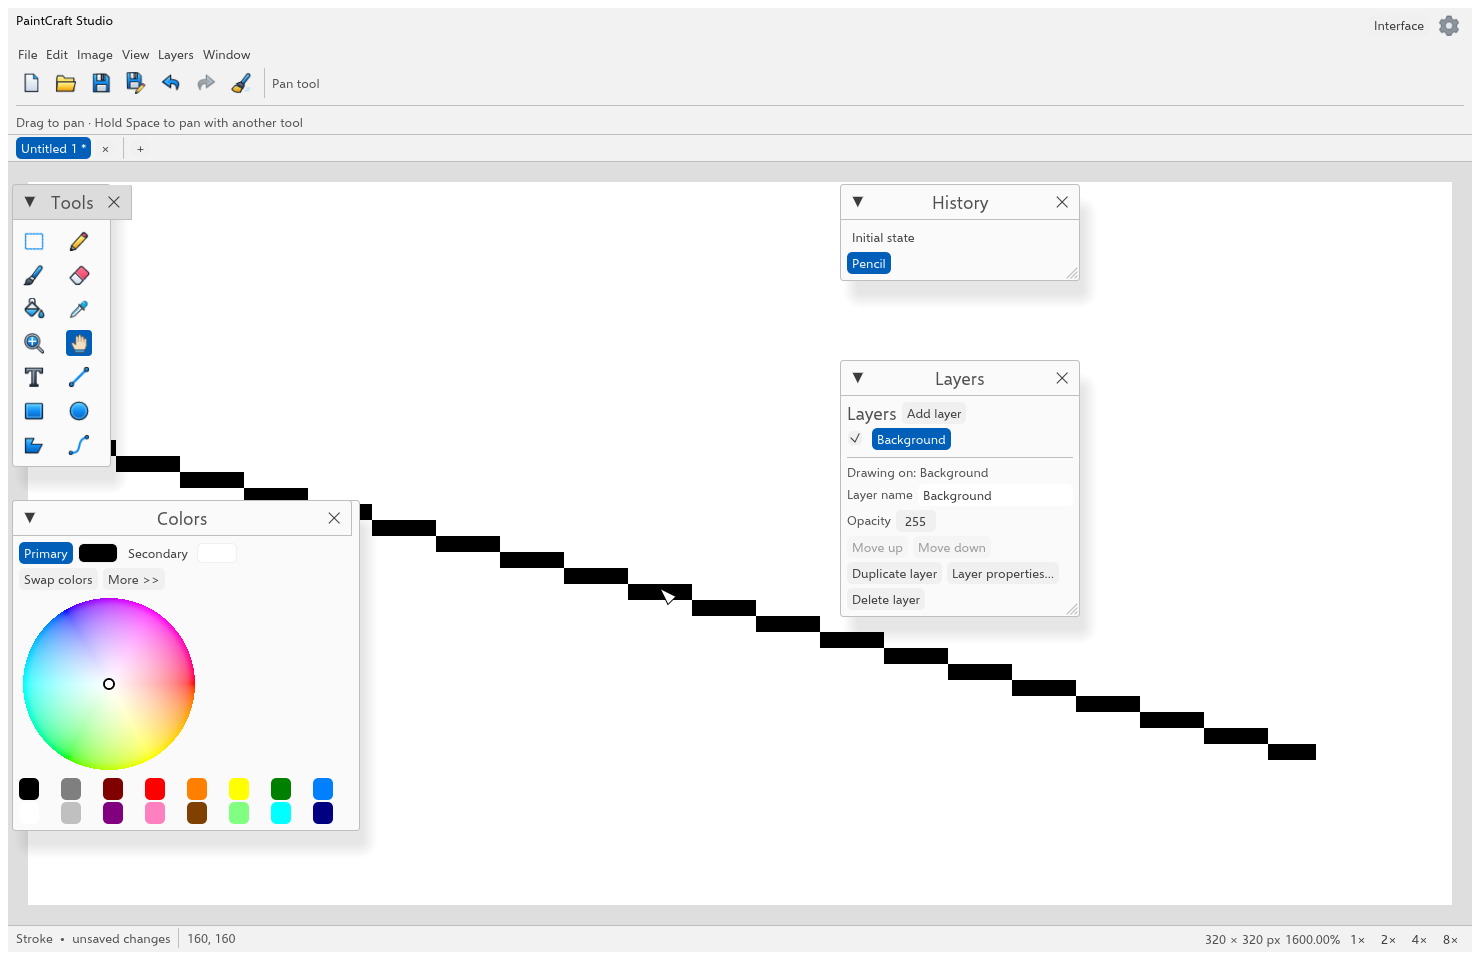
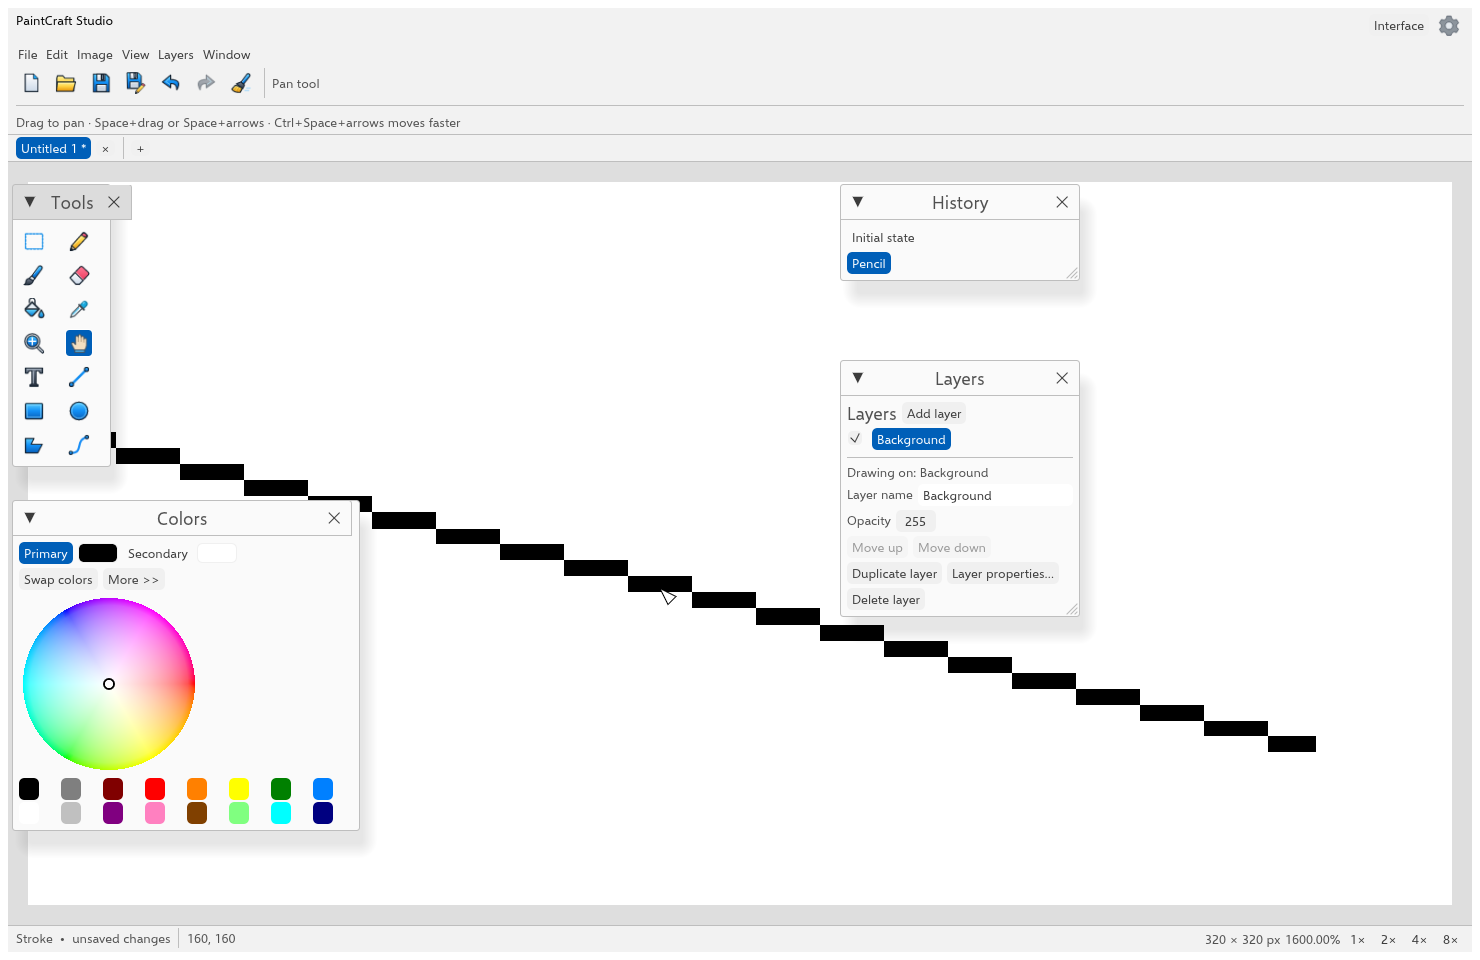
Record keyboard pan behavior and refresh localized Studio captures

diff --git a/docs/STUDIO.md b/docs/STUDIO.md
@@ -22,7 +22,8 @@ separately in the dependency choices and is not bundled yet.
 - Centered canvas in both Studio and Classic when the viewport is larger than the document; scrolling and
   actual-pixel zoom retain the common mapping.
 - Zoom tool with click stepping, rectangle-to-viewport fit and text-safe Z shortcut.
-- Pan tool with H, temporary Space-drag, middle-button pan and hand cursors.
+- Pan tool with H, temporary Space-drag, middle-button pan, Space-plus-arrow
+  keyboard movement, Ctrl acceleration and hand cursors.
 - Overscroll with a persisted Studio navigation preference.
 - Shared staged brush previews, CPU/wgpu composition, transactions and undo/redo.
   Open, Save As and Export retain the native file-dialog and preservation paths.
@@ -408,9 +409,8 @@ Pan tool at 1600 percent with an edited pencil stroke. These captures do not pro
 OS cursor appearance or native Paint.NET parity. Raw logs are retained in ignored
 `docs/validation/studio-pan-2026-10-24/`.
 
-Overscroll is implemented in the following slice. Space-plus-arrow panning,
-Ctrl-accelerated keyboard pan, automatic
-edge scrolling and per-device/native qualification remain unfinished. This does
+Overscroll and keyboard panning are implemented below. Automatic edge scrolling
+and per-device/native qualification remain unfinished. This does
 not complete the Studio or browser parity gates.
 
 ## Overscroll and navigation preference (2026-10-24)
@@ -462,6 +462,55 @@ settings surface were visually inspected. The fixture verifies that the small
 canvas extends outside its viewport before capture. Raw evidence is retained in
 ignored `docs/validation/studio-overscroll-2026-10-24/`.
 
-Space-plus-arrow panning, Ctrl-accelerated keyboard movement, automatic edge
-scrolling and native/per-device qualification remain unfinished. Studio web
+Keyboard panning is implemented below. Automatic edge scrolling and
+native/per-device qualification remain unfinished. Studio web
 presentation and the complete Studio roadmap gate remain unfinished.
+
+## Space-plus-arrow keyboard panning (2026-10-24)
+
+Holding Space and pressing an arrow now pans Studio's viewport in that direction.
+Ctrl multiplies the movement by ten. Releasing Space stops keyboard panning;
+ordinary arrows without Space do not navigate the canvas. Native repeat events
+contribute one movement each, and coalesced input retains key-down/key-up ordering.
+The selected paint tool, document pixels, selection and history remain unchanged.
+
+The primary workflow reference remains the official
+[Paint.NET View Tools documentation](https://paint.net/doc/latest/ViewTools.html),
+which describes Space-plus-arrow movement, Ctrl acceleration and document-pixel
+movement varying inversely with zoom. PaintCraft currently chooses one physical
+display pixel per arrow event, or ten with Ctrl. Thus 12.5 percent zoom moves eight
+document pixels, while 1600 percent moves a sixteenth of a document pixel. These step-size and direction choices still require comparison with a pinned
+native build.
+
+The normalized direction/step helper lives with the shared view gestures. The
+host converts the physical step to logical UI points using the display scale and
+queues the same scoped scroll request used by mouse panning. Existing scroll and
+overscroll limits apply. The handler consumes only eligible arrow presses and
+clears egui's pending focus navigation so the same key cannot also move widget
+focus. Repeats still pass through this view path after ordinary document-shortcut
+repeat suppression.
+
+Text fields, editable canvas text, IME composition, popups and settings dialogs
+retain keyboard ownership. Focus loss clears temporary Space-pan activation.
+Modifier combinations reserved for other interactions are not reinterpreted as
+plain Space-plus-arrow movement. Keyboard panning produces no document command or
+paint gesture and does not place or discard an editable text draft.
+
+Validation: the full ordinary desktop GUI suite passes 263 tests (63 explicit
+manual/capture tests ignored). New GUI coverage checks all four directions, Ctrl's
+tenfold multiplier, exact physical steps at DPI 1/2, English/Japanese, light/dark,
+forced multipass, low/high zoom document displacement, repeat counts, release
+ordering, focus loss, no-Space behavior and unchanged document/history/tool state.
+It also checks layer-name fields, open menus, modal settings, pending canvas text
+and IME preedit. Six shared navigation tests and 30 ordinary shared UI tests pass.
+All 68 browser library tests pass; its release distribution rebuilds. Workspace
+check, strict all-target Clippy, translation, source-length and whitespace checks
+pass. The final combined hint also retains the passing narrow settings check.
+
+The actual Pan captures at `assets/repo/studio-pan-en-US.png` and
+`studio-pan-ja.png` were refreshed and visually inspected with one combined
+mouse/keyboard instruction. They demonstrate the current UI, while the exact
+keyboard movement evidence is in the GUI assertions and ignored raw logs under
+`docs/validation/studio-keyboard-pan-2026-10-24/`. OS shortcut delivery, physical
+IME/device behavior and full native Paint.NET parity remain unqualified. Automatic
+edge scrolling and the broader Studio/browser roadmap remain unfinished.

diff --git a/docs/ROADMAP_STATUS.md b/docs/ROADMAP_STATUS.md
@@ -15,8 +15,8 @@ See [Classic follow-up](CLASSIC_FOLLOWUP.md).
 Studio now exposes its own Zoom tool with `Z`, click stepping and a transient
 rectangle that fits the dragged document area into the viewport. It preserves
 pixels/selection/history and editable text, with cancellation on source/view
-changes. Pan now includes H, temporary Space-drag and middle-button dragging. Overscroll now defaults on with a persisted Studio-only setting. Keyboard pan,
-edge scrolling and full reference qualification remain unfinished.
+changes. Pan now includes H, temporary Space-drag and middle-button dragging. Overscroll now defaults on with a persisted Studio-only setting. Keyboard pan now supports Space-plus-arrows and Ctrl acceleration. Edge scrolling
+and full reference qualification remain unfinished.
 See [Studio workflow and evidence](STUDIO.md).
 
 
